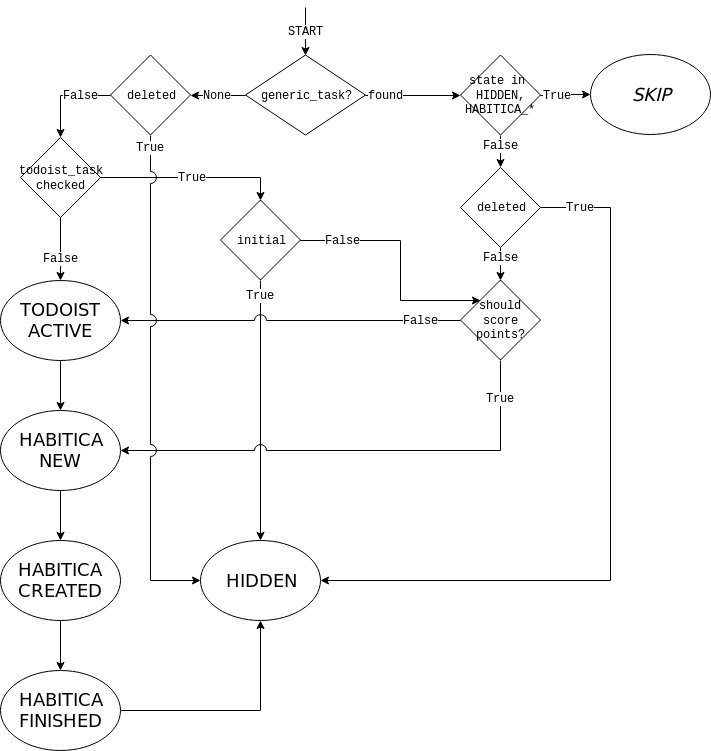
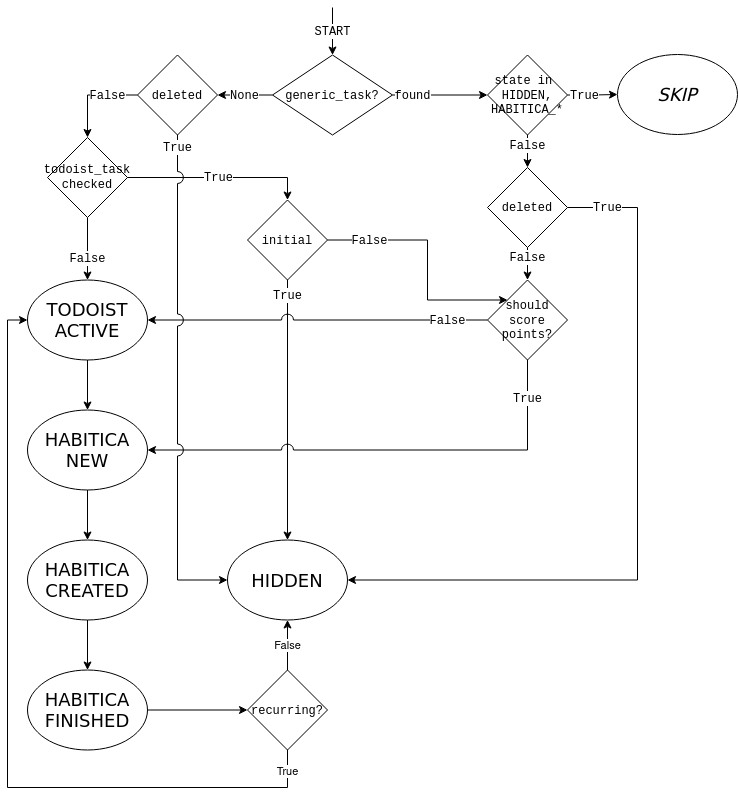
Fix recurring tasks (#15)

diff --git a/src/main.py b/src/main.py
@@ -110,17 +110,23 @@ class TasksSync:  # pylint: disable=too-few-public-methods
 
     @staticmethod
     def _should_task_score_points(todoist_task: TodoistTask, generic_task: GenericTask = None) -> bool:
-        return bool(
-            todoist_task.checked
-            or (
+        if todoist_task.checked:
+            return True
+
+        if generic_task:
+            recurring_task_checked = bool(
                 todoist_task.due is not None
                 and todoist_task.due["is_recurring"]
-                and generic_task
                 and generic_task.due_date_utc_timestamp
                 and todoist_task.due_date_utc_timestamp
                 and generic_task.due_date_utc_timestamp < todoist_task.due_date_utc_timestamp
             )
-        )
+
+            if recurring_task_checked:
+                generic_task.due_date_utc_timestamp = todoist_task.due_date_utc_timestamp
+                return True
+
+        return False
 
     # TODO: Improve FSM algorithm
     def _next_tasks_state_in_habitica(self):  # pylint: disable=too-complex
@@ -168,7 +174,8 @@ class TasksSync:  # pylint: disable=too-few-public-methods
                         else:
                             raise ex
 
-                    self._task_cache.set_task_state(generic_task, TaskState.HIDDEN)
+                    next_state = TaskState.TODOIST_ACTIVE if generic_task.is_recurring else TaskState.HIDDEN
+                    self._task_cache.set_task_state(generic_task, next_state)
                     time.sleep(HABITICA_REQUEST_WAIT_TIME)
             except IOError as ex:
                 self._log.error(f"Unexpected network error: {str(ex)}")

diff --git a/src/models/generic_task.py b/src/models/generic_task.py
@@ -21,6 +21,7 @@ class GenericTask:
     content: str
     priority: int
     state: TaskState
+    is_recurring: bool
     due_date_utc_timestamp: Optional[int]
     habitica_task_id: Optional[str] = None
 
@@ -36,4 +37,5 @@ class GenericTask:
             priority=todoist_task.priority,
             state=task_state,
             due_date_utc_timestamp=todoist_task.due_date_utc_timestamp,
+            is_recurring=bool(todoist_task.due and todoist_task.due["is_recurring"]),
         )

diff --git a/CHANGELOG.md b/CHANGELOG.md
@@ -14,6 +14,12 @@ Types of changes are:
 
 ## [Unreleased]
 
+## [2.0.0] - 2022-01-30
+
+## Fixed
+
+- **BREAKING CHANGE:** Recurring Todoist tasks are counted on every completion, not just the fist one. Please [reset the cache](README.md#resetting-sync-cache) as this fix doesn't work for already cached tasks.
+
 ## [1.2.0] - 2022-01-30
 
 ### Changed
@@ -62,7 +68,8 @@ Types of changes are:
 
 * Initial release
 
-[Unreleased]: https://github.com/radeklat/todoist-habitica-points-sync/compare/1.2.0...HEAD
+[Unreleased]: https://github.com/radeklat/todoist-habitica-points-sync/compare/2.0.0...HEAD
+[2.0.0]: https://github.com/radeklat/todoist-habitica-points-sync/compare/1.2.0...2.0.0
 [1.2.0]: https://github.com/radeklat/todoist-habitica-points-sync/compare/1.1.3...1.2.0
 [1.1.3]: https://github.com/radeklat/todoist-habitica-points-sync/compare/1.1.2...1.1.3
 [1.1.2]: https://github.com/radeklat/todoist-habitica-points-sync/compare/1.1.1...1.1.2

diff --git a/README.md b/README.md
@@ -211,6 +211,16 @@ Repeat sync automatically after N minutes.
 Where to store synchronisation details. No need to change.
 <!-- settings-doc end -->
 
+# Resetting sync cache
+
+Sometimes certain changes require to reset the sync cache. The cache  holds state information only to allow recovery after an unexpected termination of the program. So it is not needed in between restarts and can be safely remove.
+
+To reset the cache:
+1. Stop the application.
+2. Remove the `.sync_cache/sync_cache.json` file or any other location given in the [`DATABASE_FILE`](#database_file) config option.
+3. Start to application again.
+4. You should see all existing Todoist tasks loaded again either as `HIDDEN` (finished tasks) or `TODOIST_ACTIVE` (not completed yet).
+
 # Planned work
 
 * Synchronise overdue task to cause damage in habitica
